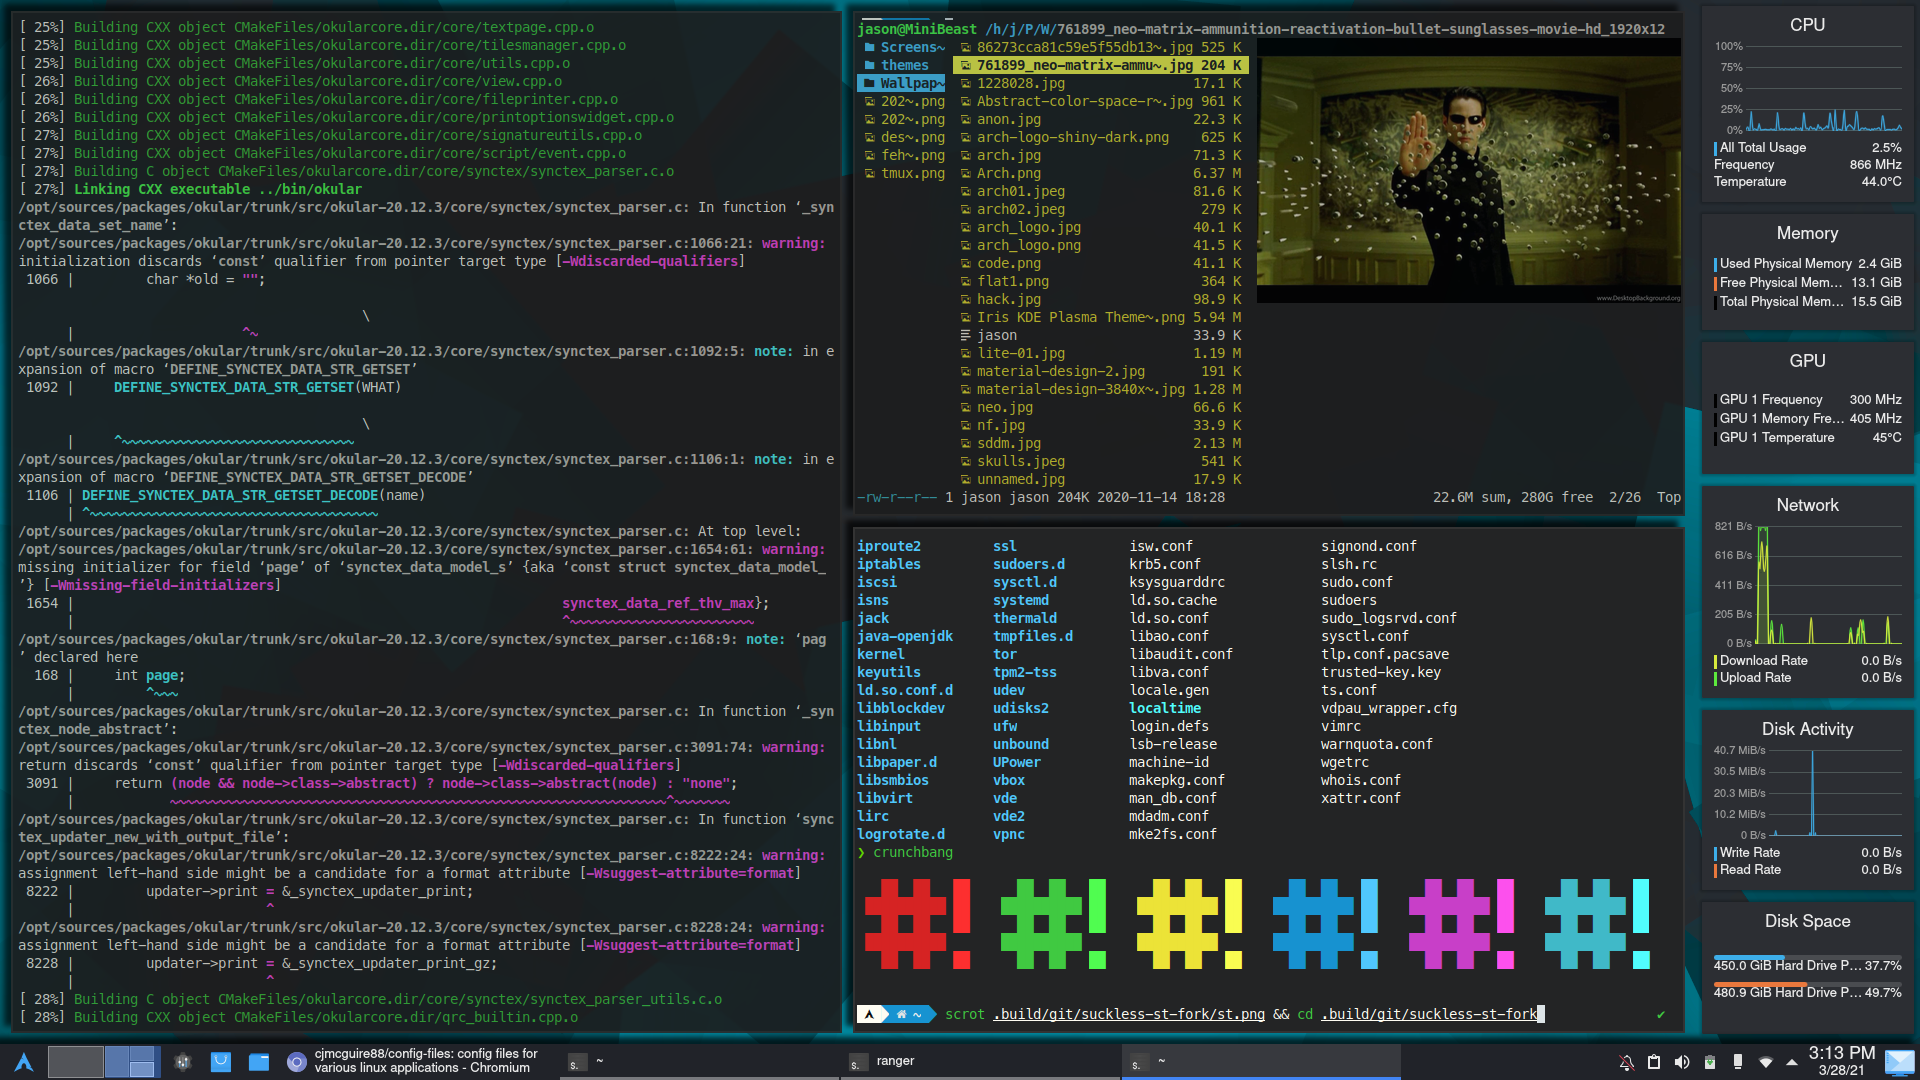
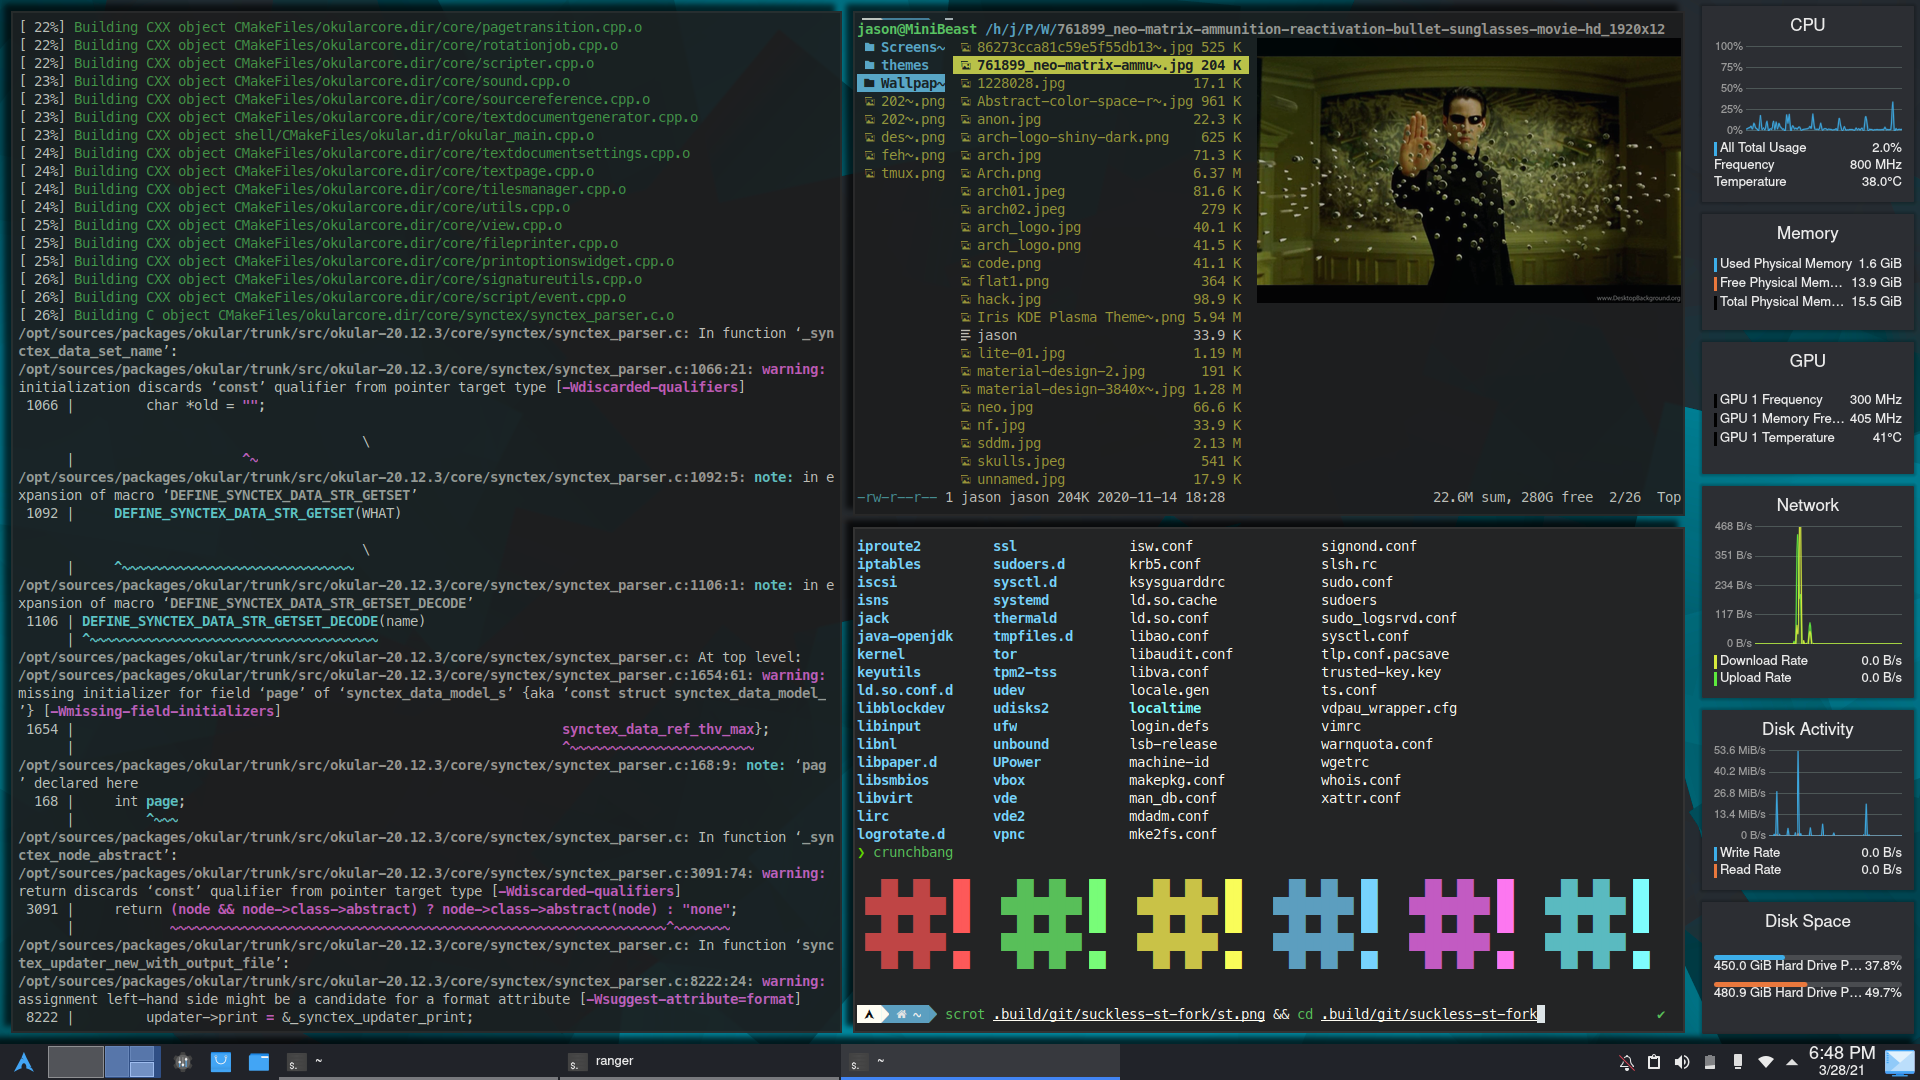
3/28/21

diff --git a/config.h b/config.h
@@ -104,22 +104,22 @@ static const char *colorname[] = {
 
   /* 8 normal colors */
   [0] = "#232425", /* black   */
-  [1] = "#d72323", /* red     */
-  [2] = "#40ca41", /* green   */
-  [3] = "#ede437", /* yellow  */
-  [4] = "#1793d1", /* blue    */
-  [5] = "#c93fc9", /* magenta */
-  [6] = "#40bac9", /* cyan    */
+  [1] = "#c04545", /* red     */
+  [2] = "#58c059", /* green   */
+  [3] = "#cac347", /* yellow  */
+  [4] = "#5c9fc0", /* blue    */
+  [5] = "#c35bc3", /* magenta */
+  [6] = "#5abbc1", /* cyan    */
   [7] = "#fffdf3", /* white   */
 
   /* 8 bright colors */
   [8]  = "#6f6c67", /* black   */
-  [9]  = "#fe2f2f", /* red     */
-  [10] = "#50fe50", /* green   */
-  [11] = "#fafe51", /* yellow  */
-  [12] = "#50c8fe", /* blue    */
-  [13] = "#fe50ee", /* magenta */
-  [14] = "#51fefe", /* cyan    */
+  [9]  = "#fe5959", /* red     */
+  [10] = "#78fe78", /* green   */
+  [11] = "#fafe59", /* yellow  */
+  [12] = "#77d4fe", /* blue    */
+  [13] = "#fe77f1", /* magenta */
+  [14] = "#7efefe", /* cyan    */
   [15] = "#cac8c0", /* white   */
 
   /* special colors */
